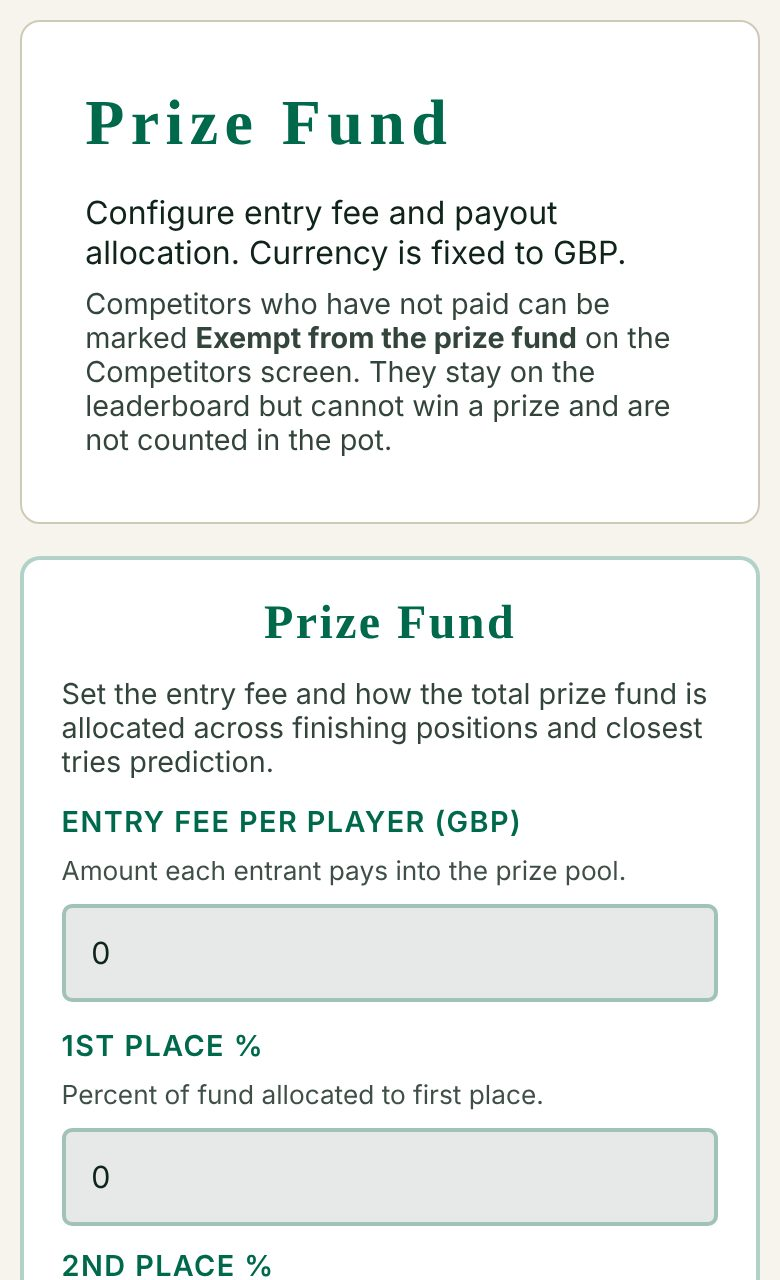
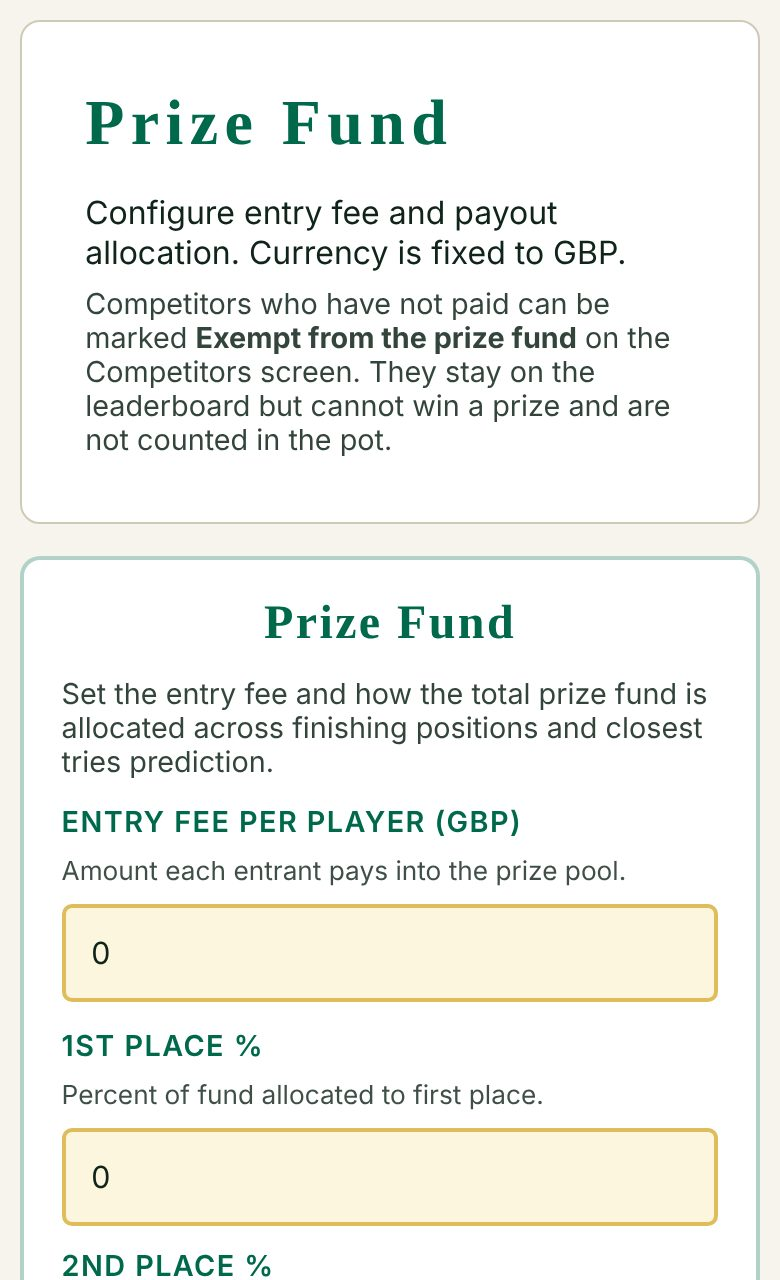
Admin and form colours in line: yellow-tinted fields (#132)
* Open at the very top (no restored scroll position)

Claude-Session: https://claude.ai/code/session_01YF7ntrNncvTWaxhmpEFPNu

* Remove background stripes when signed in so the top of the Home Screen app is not faded

Claude-Session: https://claude.ai/code/session_01YF7ntrNncvTWaxhmpEFPNu

* Current round summary no longer scrolls sideways: hidden tooltips were widening the table

Claude-Session: https://claude.ai/code/session_01YF7ntrNncvTWaxhmpEFPNu

* Hide the Edit button on My Predictions when the year is locked

Claude-Session: https://claude.ai/code/session_01YF7ntrNncvTWaxhmpEFPNu

* Pin the summary header while the table is on screen; show the points breakdown under the pill on My Predictions

Claude-Session: https://claude.ai/code/session_01YF7ntrNncvTWaxhmpEFPNu

* Setup checklist: own screen opened from a button; add lock-predictions and finished-match-scores steps; clearer actual score/tries labels on Edit Fixture

Claude-Session: https://claude.ai/code/session_01YF7ntrNncvTWaxhmpEFPNu

* My Predictions: expandable rules section (same wording as the tour)

Claude-Session: https://claude.ai/code/session_01YF7ntrNncvTWaxhmpEFPNu

* Tour: show the generated PDF page under the PDF icon (tour-shots builds it with the app's own export)

Claude-Session: https://claude.ai/code/session_01YF7ntrNncvTWaxhmpEFPNu

* Infer rounds from fixture dates (same Thursday to Sunday weekend = one round); remove the manual round input
[…]

Changed region(s): [[0.0615, 0.875, 0.9231, 0.9688], [0.0615, 0.6875, 0.9231, 0.7812]]

diff --git a/index.html b/index.html
@@ -20,7 +20,7 @@
     <script src="https://cdn.jsdelivr.net/npm/@supabase/supabase-js@2"></script>
     <script src="https://cdn.jsdelivr.net/npm/jspdf@2.5.2/dist/jspdf.umd.min.js"></script>
     <script src="https://cdn.jsdelivr.net/npm/jspdf-autotable@3.8.4/dist/jspdf.plugin.autotable.min.js"></script>
-    <link rel="stylesheet" href="styles.css?v=30261025-209">
+    <link rel="stylesheet" href="styles.css?v=30261025-212">
 </head>
 <body>
     <!-- Loading Screen -->
@@ -834,28 +834,28 @@
         <button type="button" class="install-tip-close" aria-label="Dismiss" onclick="dismissInstallTip()">&#10005;</button>
     </div>
 
-    <script src="js/constants.js?v=30261025-209"></script>
-    <script src="js/storage.js?v=30261025-209"></script>
-    <script src="js/state.js?v=30261025-209"></script>
-    <script src="js/years-admin.js?v=30261025-209"></script>
-    <script src="js/init.js?v=30261025-209"></script>
-    <script src="js/admin-fixtures.js?v=30261025-209"></script>
-    <script src="js/admin-competitors.js?v=30261025-209"></script>
-    <script src="js/profile.js?v=30261025-209"></script>
-    <script src="js/auth.js?v=30261025-209"></script>
-    <script src="js/predictions.js?v=30261025-209"></script>
-    <script src="js/scoring.js?v=30261025-209"></script>
-    <script src="js/trevs-tips.js?v=30261025-209"></script>
-    <script src="js/leaderboard.js?v=30261025-209"></script>
-    <script src="js/worm-chart.js?v=30261025-209"></script>
-    <script src="js/summary.js?v=30261025-209"></script>
-    <script src="js/fixture-chat.js?v=30261025-209"></script>
-    <script src="js/tour-images.js?v=30261025-209"></script>
-    <script src="js/tour.js?v=30261025-209"></script>
-    <script src="js/app-bar.js?v=30261025-209"></script>
-    <script src="js/export-pdf.js?v=30261025-209"></script>
-    <script src="js/rules-admin.js?v=30261025-209"></script>
-    <script src="js/recovery-usage.js?v=30261025-209"></script>
-    <script src="js/app-shell.js?v=30261025-209"></script>
+    <script src="js/constants.js?v=30261025-212"></script>
+    <script src="js/storage.js?v=30261025-212"></script>
+    <script src="js/state.js?v=30261025-212"></script>
+    <script src="js/years-admin.js?v=30261025-212"></script>
+    <script src="js/init.js?v=30261025-212"></script>
+    <script src="js/admin-fixtures.js?v=30261025-212"></script>
+    <script src="js/admin-competitors.js?v=30261025-212"></script>
+    <script src="js/profile.js?v=30261025-212"></script>
+    <script src="js/auth.js?v=30261025-212"></script>
+    <script src="js/predictions.js?v=30261025-212"></script>
+    <script src="js/scoring.js?v=30261025-212"></script>
+    <script src="js/trevs-tips.js?v=30261025-212"></script>
+    <script src="js/leaderboard.js?v=30261025-212"></script>
+    <script src="js/worm-chart.js?v=30261025-212"></script>
+    <script src="js/summary.js?v=30261025-212"></script>
+    <script src="js/fixture-chat.js?v=30261025-212"></script>
+    <script src="js/tour-images.js?v=30261025-212"></script>
+    <script src="js/tour.js?v=30261025-212"></script>
+    <script src="js/app-bar.js?v=30261025-212"></script>
+    <script src="js/export-pdf.js?v=30261025-212"></script>
+    <script src="js/rules-admin.js?v=30261025-212"></script>
+    <script src="js/recovery-usage.js?v=30261025-212"></script>
+    <script src="js/app-shell.js?v=30261025-212"></script>
 </body>
 </html>

diff --git a/styles.css b/styles.css
@@ -31,6 +31,8 @@
     --warn-text: #8a5300;
     --good-text: #0f6b3a;
     --tab-underline: #e8b02a;
+    --field-bg: #fdf6df;         /* form fields: a pale yellow, in line with the yellow round drop down */
+    --field-border: #e0bd5c;
     color-scheme: light;
 }
 
@@ -58,6 +60,8 @@
     --warn-text: #ffe7b8;
     --good-text: #7ef5a8;
     --tab-underline: #f0bd3e;
+    --field-bg: var(--surface-2);
+    --field-border: rgb(var(--accent-rgb) / 0.5);
     color-scheme: dark;
 }
 
@@ -4644,3 +4648,19 @@ body.summary-compact .match-header-cell .match-header-top .match-teams { margin-
 .link-account-row { display: flex; align-items: center; gap: 0.5rem; flex-wrap: nowrap; }
 .link-account-row select { flex: 1 1 auto; min-width: 0; width: auto; max-width: none; margin: 0; font-size: 0.85rem; }
 .link-account-row .btn-small { flex: none; width: auto; margin: 0; }
+
+/* Form fields across the app (rules, prize fund, years, fixtures, competitors, predictions): yellow-tinted, not grey */
+:is(#appView, #loginView, #setupView) input[type="text"], :is(#appView, #loginView, #setupView) input[type="email"], :is(#appView, #loginView, #setupView) input[type="number"], :is(#appView, #loginView, #setupView) input[type="password"],
+:is(#appView, #loginView, #setupView) input[type="date"], :is(#appView, #loginView, #setupView) input[type="time"], :is(#appView, #loginView, #setupView) textarea,
+:is(#appView, #loginView, #setupView) select:not(#yearSelect):not(.round-select):not(#themeSelect) {
+    background-color: var(--field-bg);
+    border: 2px solid var(--field-border);
+    color: var(--text);
+}
+:is(#appView, #loginView, #setupView) input[type="text"]:focus, :is(#appView, #loginView, #setupView) input[type="email"]:focus, :is(#appView, #loginView, #setupView) input[type="number"]:focus, :is(#appView, #loginView, #setupView) input[type="password"]:focus,
+:is(#appView, #loginView, #setupView) input[type="date"]:focus, :is(#appView, #loginView, #setupView) input[type="time"]:focus, :is(#appView, #loginView, #setupView) textarea:focus,
+:is(#appView, #loginView, #setupView) select:not(#yearSelect):not(.round-select):focus { background-color: var(--field-bg); border-color: var(--gold); }
+:is(#appView, #loginView, #setupView) .admin-only select:not(#yearSelect):not(.round-select) { padding: 0.45rem 0.6rem; border-radius: 5px; font-family: var(--body-font); }
+:is(#appView, #loginView, #setupView) input:disabled, :is(#appView, #loginView, #setupView) select:disabled { opacity: 0.65; }
+
+:is(#appView, #loginView, #setupView) input[type="checkbox"], :is(#appView, #loginView, #setupView) input[type="radio"] { accent-color: var(--gold); }

diff --git a/js/tour-images.js b/js/tour-images.js
@@ -24,7 +24,7 @@ const TOUR_IMAGES = {
  },
  "score": {
   "src": "tour-images/score.jpg",
-  "v": "e376ed14",
+  "v": "08e434ae",
   "w": 780,
   "h": 1520,
   "marks": [
@@ -53,7 +53,7 @@ const TOUR_IMAGES = {
  },
  "pdf": {
   "src": "tour-images/pdf.jpg",
-  "v": "9674f592",
+  "v": "064975d4",
   "w": 780,
   "h": 458,
   "marks": [
@@ -156,23 +156,23 @@ const TOUR_IMAGES = {
  },
  "admin-lock": {
   "src": "tour-images/admin-lock.jpg",
-  "v": "0cf69d9e",
+  "v": "85bc6ba4",
   "w": 780,
-  "h": 584,
+  "h": 618,
   "marks": [
    {
     "n": 1,
     "x": 2.5,
-    "y": 3.4,
+    "y": 3.3,
     "w": 95.1,
-    "h": 42.1
+    "h": 39.7
    },
    {
     "n": 2,
     "x": 2.5,
-    "y": 56.5,
+    "y": 53.4,
     "w": 95.1,
-    "h": 17.7
+    "h": 22.4
    }
   ]
  },
@@ -200,7 +200,7 @@ const TOUR_IMAGES = {
  },
  "admin-rules": {
   "src": "tour-images/admin-rules.jpg",
-  "v": "8ae57744",
+  "v": "bacc26af",
   "w": 780,
   "h": 1280,
   "marks": [
@@ -215,7 +215,7 @@ const TOUR_IMAGES = {
  },
  "admin-prize": {
   "src": "tour-images/admin-prize.jpg",
-  "v": "a292c02c",
+  "v": "44049aad",
   "w": 780,
   "h": 1280,
   "marks": [
@@ -230,7 +230,7 @@ const TOUR_IMAGES = {
  },
  "admin-years": {
   "src": "tour-images/admin-years.jpg",
-  "v": "6fc1d40b",
+  "v": "37fa4188",
   "w": 780,
   "h": 1280,
   "marks": [
